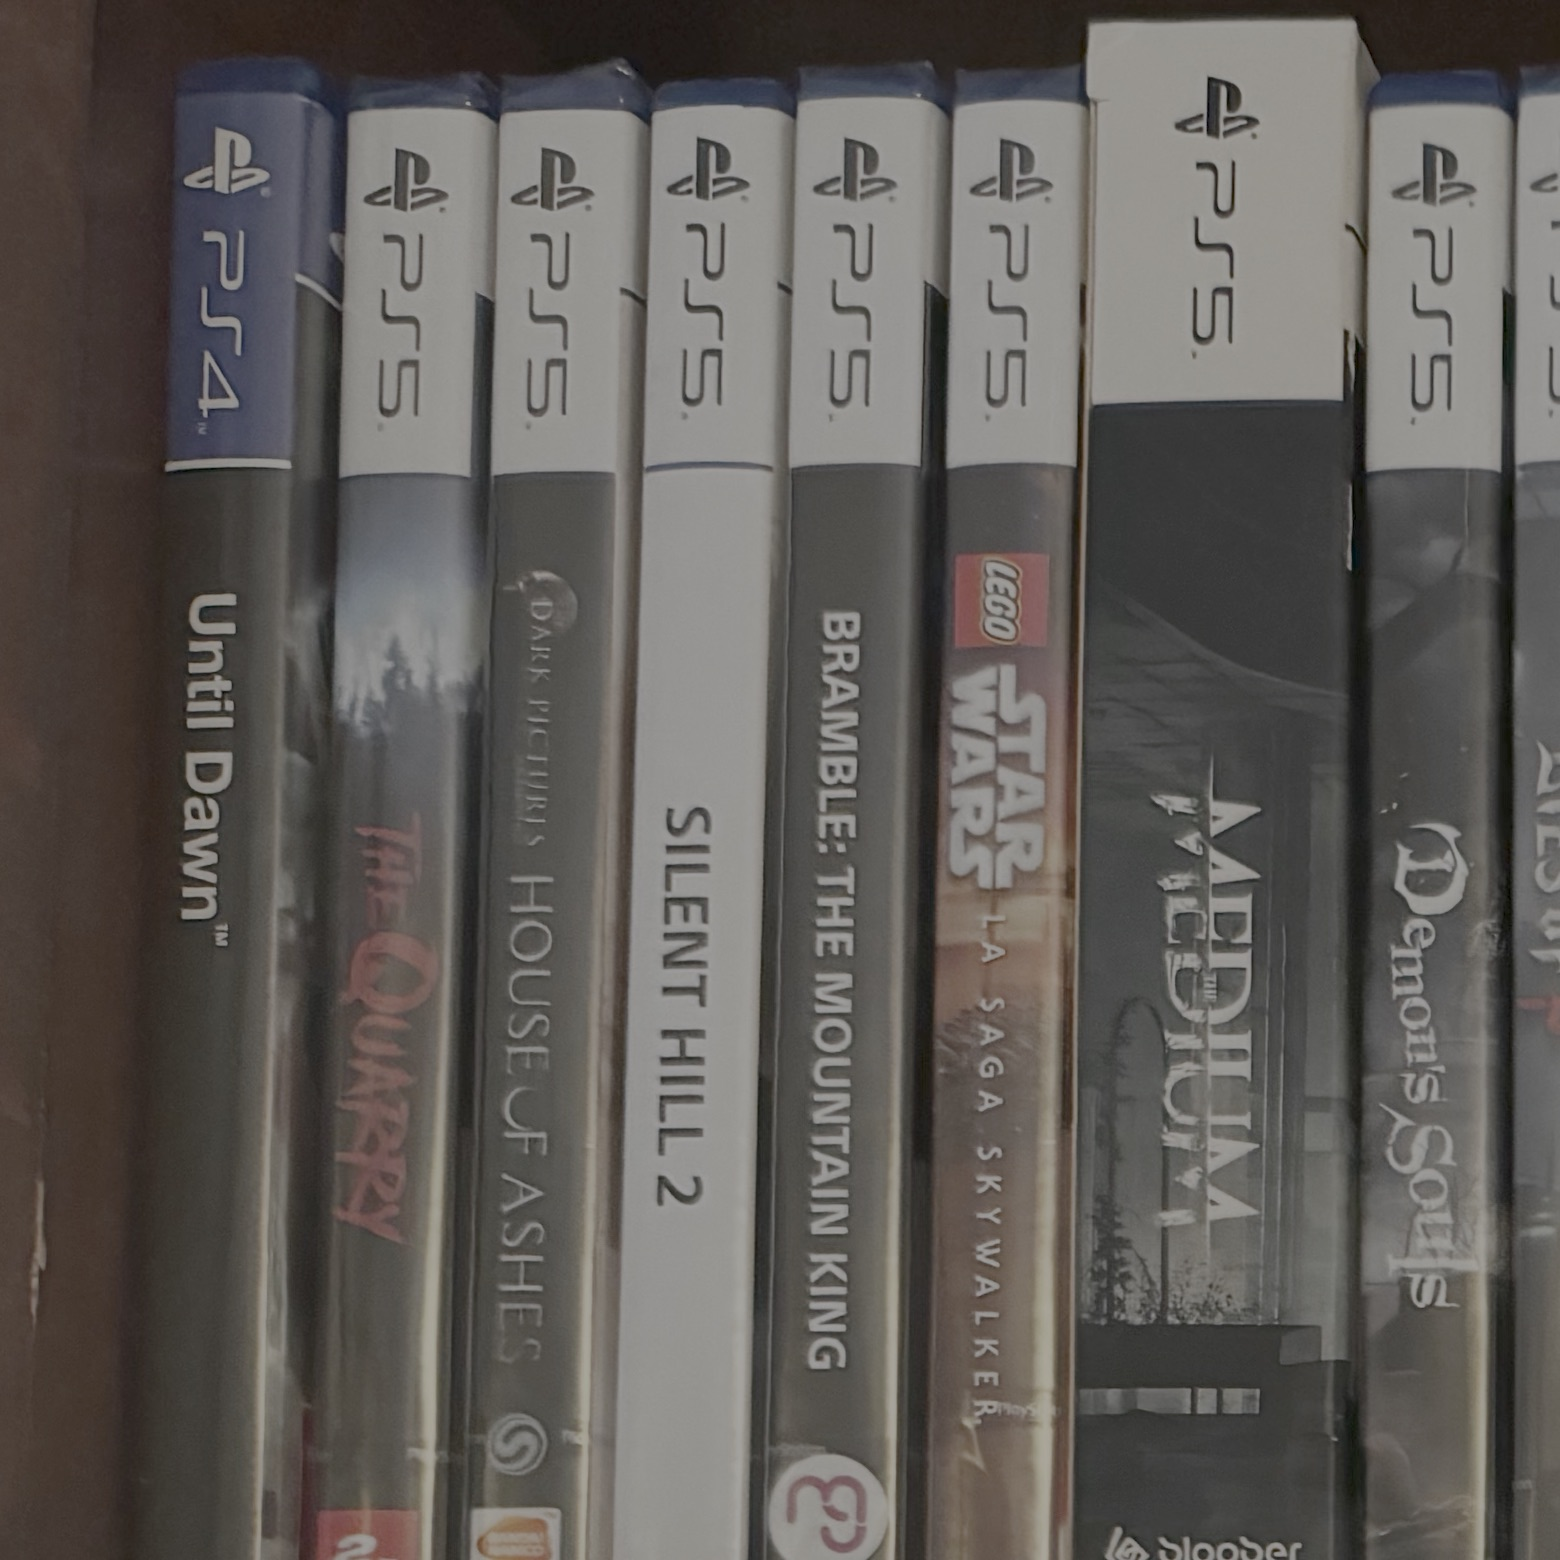
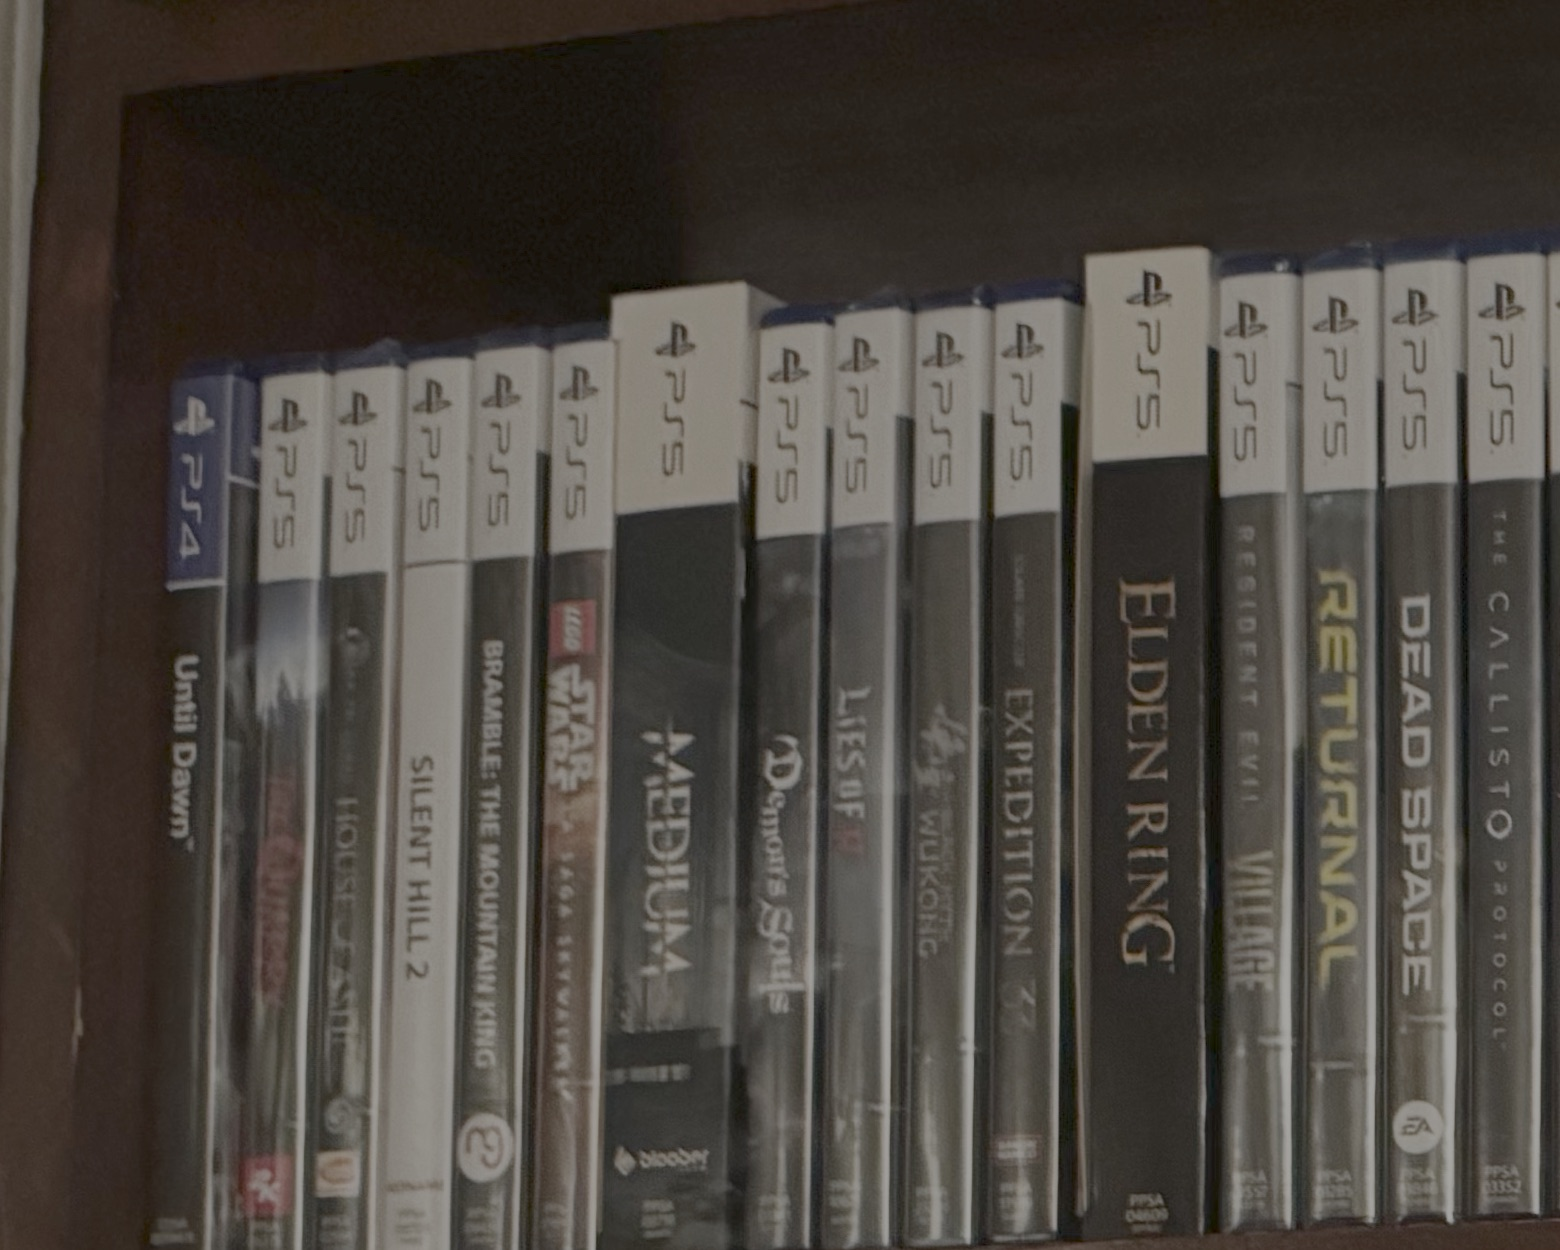
Shelf fixtures: retire IMG_3681/3682, add IMG_3687 + re-cut tiles
The retired 3681/3682 had an empty ELDEN RING sleeve beside the boxed game
(looked like two copies). IMG_3687 (5699x3452) is a single wide frame covering
the same two shelves, so nothing is lost. Drop the 3681/3682 downsized JPEGs and
the three tiles cut from them (tile1_ps5_row, tile2_ps4_row, tile3_french_titles),
add downsized IMG_3687, and re-cut tiles 1-3 from IMG_3687 (1560x1250, q80).
Update docs/fixtures.md (inventory, dimensions, commands, coordinates). Committed
fixture weight ~4.4 MB, under the ~6 MB budget.

diff --git a/docs/fixtures.md b/docs/fixtures.md
@@ -1,42 +1,53 @@
 # Shelf image fixtures
 
-Test fixtures derived from the 6 original shelf photos. The **originals are never
-committed** — they live in `../samples/IMG_3681.png … IMG_3686.png` (git-ignored via
-`samples/` in `.gitignore`) and are read-only input.
+Test fixtures derived from the 5 original shelf photos. The **originals are never
+committed** — they live in `../samples/` (git-ignored via `samples/` in `.gitignore`)
+and are read-only input.
 
 All committed fixtures live under `VGNTests/Fixtures/shelf/`. Total committed weight
-≈ 5.1 MB (6 downsized photos ≈ 2.9 MB + 6 tiles ≈ 2.2 MB), under the ~6 MB budget.
+≈ 4.4 MB (5 downsized photos ≈ 2.3 MB + 6 tiles ≈ 2.2 MB), under the ~6 MB budget.
+
+## Sample set change (2026-09-18)
+
+**`IMG_3681.png` and `IMG_3682.png` were retired** and **`IMG_3687.png` added**. In the
+old 3681/3682 an empty *Elden Ring* sleeve stood next to the boxed game, so it looked
+like two copies; the box is now back inside the sleeve → exactly **one** Elden Ring.
+`IMG_3687` is a single, wider frame that covers the same two shelves the retired pair
+covered, so nothing is lost. The committed downsized JPEGs `IMG_3681.jpg`/`IMG_3682.jpg`
+and the three tiles cut from them (`tile1_ps5_row`, `tile2_ps4_row`, `tile3_french_titles`)
+were removed and re-cut from `IMG_3687`.
 
 ## Originals (not committed)
 
 | File | Dimensions | Size | Content |
 |---|---|---|---|
-| `IMG_3681.png` | 5712 × 4284 | ~25 MB | Top two shelves, left: PS5 row over PS4 row |
-| `IMG_3682.png` | 5712 × 4284 | ~26 MB | Same shelves, panned right (PS5→PS4→PS3) |
-| `IMG_3683.png` | 5712 × 4284 | ~26 MB | Same shelves, panned further right |
+| `IMG_3683.png` | 5712 × 4284 | ~26 MB | Upper + lower shelves, panned right (PS5→PS4→PS3) |
 | `IMG_3684.png` | 5712 × 4284 | ~26 MB | Lower shelf close-up: PS3 spines + start of Xbox 360 |
 | `IMG_3685.png` | 5712 × 4284 | ~26 MB | Lower shelf: PS3 → Xbox 360 → Nintendo Switch (red) |
 | `IMG_3686.png` | 4032 × 3024 | ~10 MB | Single front-cover shot, held in hand: *Clair Obscur: Expedition 33* (PS5) |
+| `IMG_3687.png` | 5699 × 3452 | ~21 MB | Single wide frame: upper shelf PS5→PS4 row, lower shelf PS4→PS3 row (replaces retired 3681/3682) |
 
-The 5 shelf photos (3681–3685) pan left-to-right across the same wall unit, so games
-overlap between consecutive frames. 3686 is a separate front-cover close-up.
+`IMG_3683`–`3685` pan left-to-right across the same wall unit, so games overlap between
+consecutive frames. `IMG_3687` is a single wide 2-shelf frame of the left half of that
+unit (wider/shorter aspect than the 4:3 frames). `IMG_3686` is a separate front-cover
+close-up.
 
 ## Downsized photos — `IMG_368x.jpg`
 
 Each original downsized to 2000 px on the long edge, JPEG quality 70. These are the
 "whole photo" fixtures (fast to load, spine text still broadly readable).
 
-Produced with `sips` (repeatable for all six):
+Produced with `sips` (repeatable for all five):
 
 ```sh
-for n in 3681 3682 3683 3684 3685 3686; do
+for n in 3683 3684 3685 3686 3687; do
   sips -s format jpeg -s formatOptions 70 -Z 2000 \
     ../samples/IMG_${n}.png --out VGNTests/Fixtures/shelf/IMG_${n}.jpg
 done
 ```
 
-Result: 2000 × 1500 (3681–3685) / 2000 × 1500-ish (3686 is 4:3 → 2000 × 1500), each
-≈ 370–570 KB.
+Result: 2000 × 1500 (3683–3685), 2000 × 1500 (3686 is 4:3), 2000 × 1211 (3687 is the
+wide frame), each ≈ 376–567 KB.
 
 ## Tiles — `tiles/*.jpg`
 
@@ -47,11 +58,15 @@ JPEG quality 80. These keep spine text crisp and are the primary input the Wave 
 Produced with `scripts/crop-tiles.swift` (ImageIO crop; args are the top-left offset
 and size in the **original** pixel space):
 
+Tiles 1–3 are cut from the new `IMG_3687` (the wide frame is only 3452 px tall, so
+these are 1560 × 1250, sized to fit the spine band without spilling into the shelf);
+tiles 4–6 are unchanged.
+
 ```sh
 # swift scripts/crop-tiles.swift <in.png> <out.jpg> <x> <y> <w> <h> [quality=0.8]
-swift scripts/crop-tiles.swift ../samples/IMG_3681.png tiles/tile1_ps5_row.jpg        520  180  1560 1560
-swift scripts/crop-tiles.swift ../samples/IMG_3681.png tiles/tile2_ps4_row.jpg        520  2450 1600 1560
-swift scripts/crop-tiles.swift ../samples/IMG_3682.png tiles/tile3_french_titles.jpg  1820 240  1560 1560
+swift scripts/crop-tiles.swift ../samples/IMG_3687.png tiles/tile1_ps5_row.jpg        300  400  1560 1250
+swift scripts/crop-tiles.swift ../samples/IMG_3687.png tiles/tile2_ps4_row.jpg        280  1980 1560 1250
+swift scripts/crop-tiles.swift ../samples/IMG_3687.png tiles/tile3_french_titles.jpg  2050 400  1560 1250
 swift scripts/crop-tiles.swift ../samples/IMG_3684.png tiles/tile4_ps3_collector.jpg  1700 1350 1560 1560
 swift scripts/crop-tiles.swift ../samples/IMG_3685.png tiles/tile5_switch_xbox360.jpg 2750 1500 1560 1560
 swift scripts/crop-tiles.swift ../samples/IMG_3686.png tiles/tile6_front_cover.jpg    740  180  1560 2000
@@ -59,9 +74,9 @@ swift scripts/crop-tiles.swift ../samples/IMG_3686.png tiles/tile6_front_cover.j
 
 | Tile | Source | Region (x,y,w,h in original px) | Why it's here |
 |---|---|---|---|
-| `tile1_ps5_row.jpg` | IMG_3681 | 520,180,1560,1560 | PS4/PS5 spine banners + clean English titles (Until Dawn, The Quarry, House of Ashes, Silent Hill 2, Bramble, LEGO Star Wars, The Medium, Demon's Souls) — the easy baseline |
-| `tile2_ps4_row.jpg` | IMG_3681 | 520,2450,1600,1560 | Dense PS4 row (Resident Evil, Prey, Uncharted 4, The Evil Within, Dark Souls III, FFXII, Astro Bot, Ni no Kuni II) |
-| `tile3_french_titles.jpg` | IMG_3682 | 1820,240,1560,1560 | French edition + special editions: *Les Chevaliers de Baphomet – L'ombre des Templiers: Reforged*, *Final Fantasy XVI Édition Deluxe*, Alan Wake Remastered, Syberia Remastered |
+| `tile1_ps5_row.jpg` | IMG_3687 | 300,400,1560,1250 | Upper-shelf clean PS5/PS4 baseline: Until Dawn (PS4), House of Ashes, Silent Hill 2, Bramble, LEGO Star Wars, The Medium, Demon's Souls, Lies of P, Wukong, Expedition 33, Elden Ring (single), RE Village, Returnal, Dead Space, Callisto — the easy baseline |
+| `tile2_ps4_row.jpg` | IMG_3687 | 280,1980,1560,1250 | Lower-shelf dense PS4 row: Resident Evil 7, Batman Arkham Knight, Prey, Uncharted 4, The Evil Within, Dark Souls III, FFXII Zodiac Age, Ni no Kuni II, Astro Bot, Persona 5, Star Ocean, Kingdom Come, The Last Guardian, Sekiro, Shadow of the Colossus |
+| `tile3_french_titles.jpg` | IMG_3687 | 2050,400,1560,1250 | French edition + special editions: *Les Chevaliers de Baphomet – L'ombre des Templiers: Reforged*, *Final Fantasy XVI Édition Deluxe*, Alan Wake Remastered, Syberia Remastered, Death Stranding, Terminator 2D: No Fate (SteelBook) |
 | `tile4_ps3_collector.jpg` | IMG_3684 | 1700,1350,1560,1560 | Collector/compilation spines: *Metal Gear Solid: The Legacy Collection*, LEGO *Harry Potter Années 5 à 7* (French), Batman Arkham Asylum, God of War III, Guitar Hero Metallica |
 | `tile5_switch_xbox360.jpg` | IMG_3685 | 2750,1500,1560,1560 | Mixed-platform boundary: Xbox 360 spines (Dark Souls, FFXIII, Alone in the Dark, Walking Dead GOTY, FF Pixel Remaster) meeting Nintendo Switch reds (Mandragora, Mario Wonder, 3D All-Stars, Odyssey, Mario + Rabbids) |
 | `tile6_front_cover.jpg` | IMG_3686 | 740,180,1560,2000 | Front-cover shot (portrait): *Clair Obscur: Expedition 33* (PS5) — the non-spine case |
